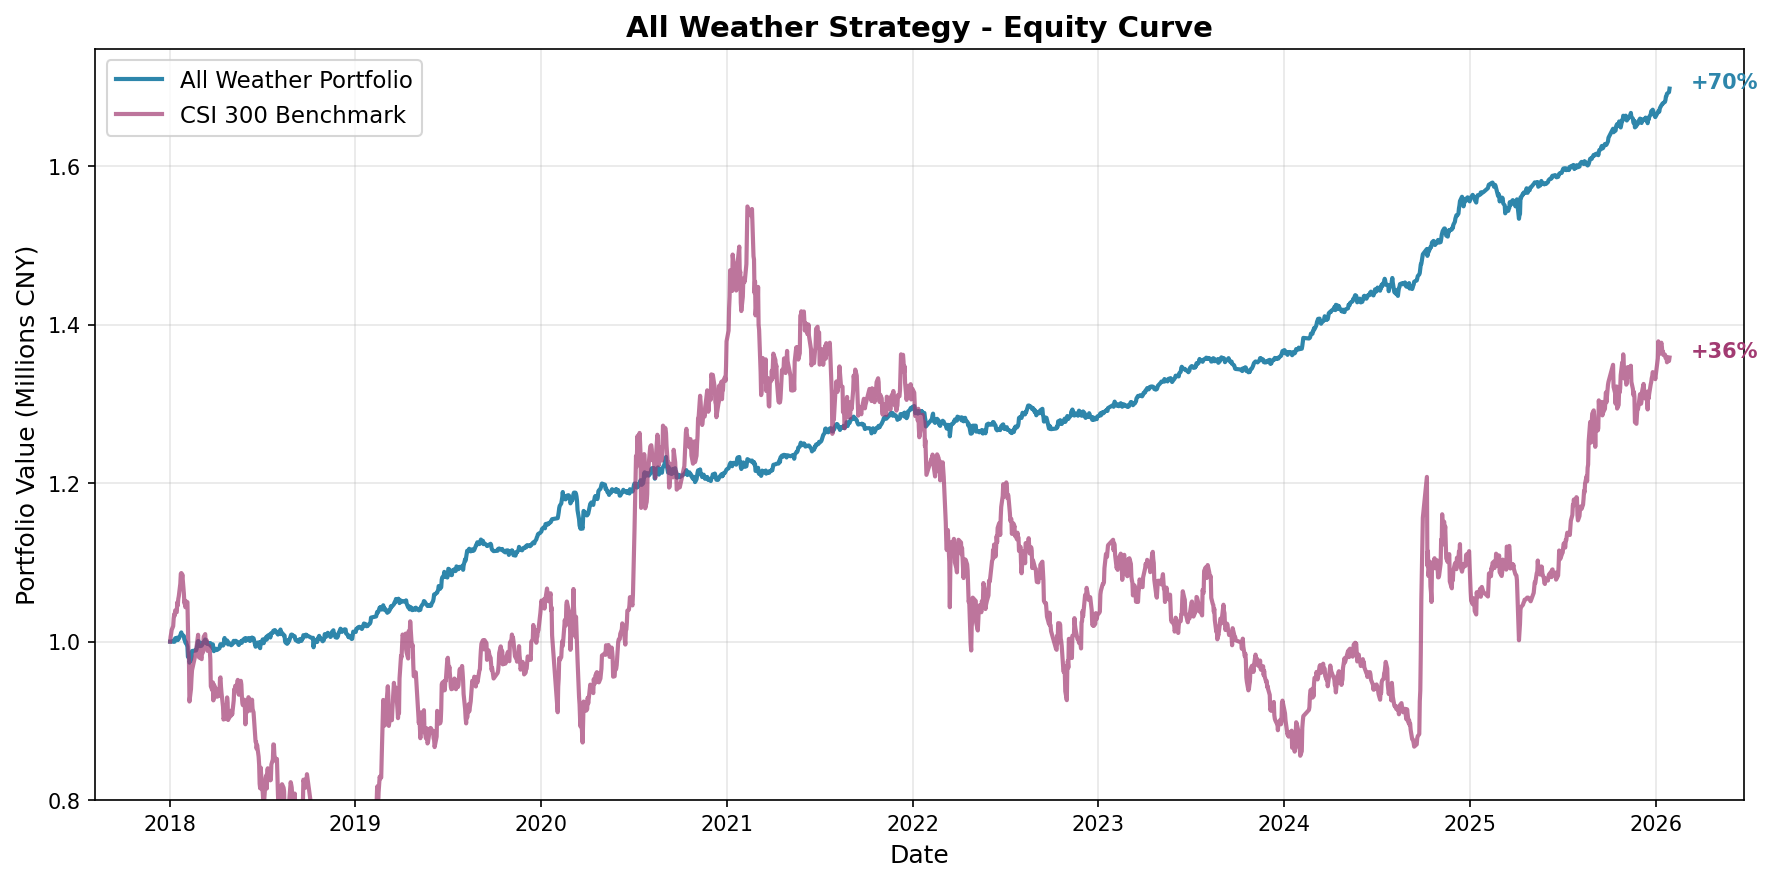
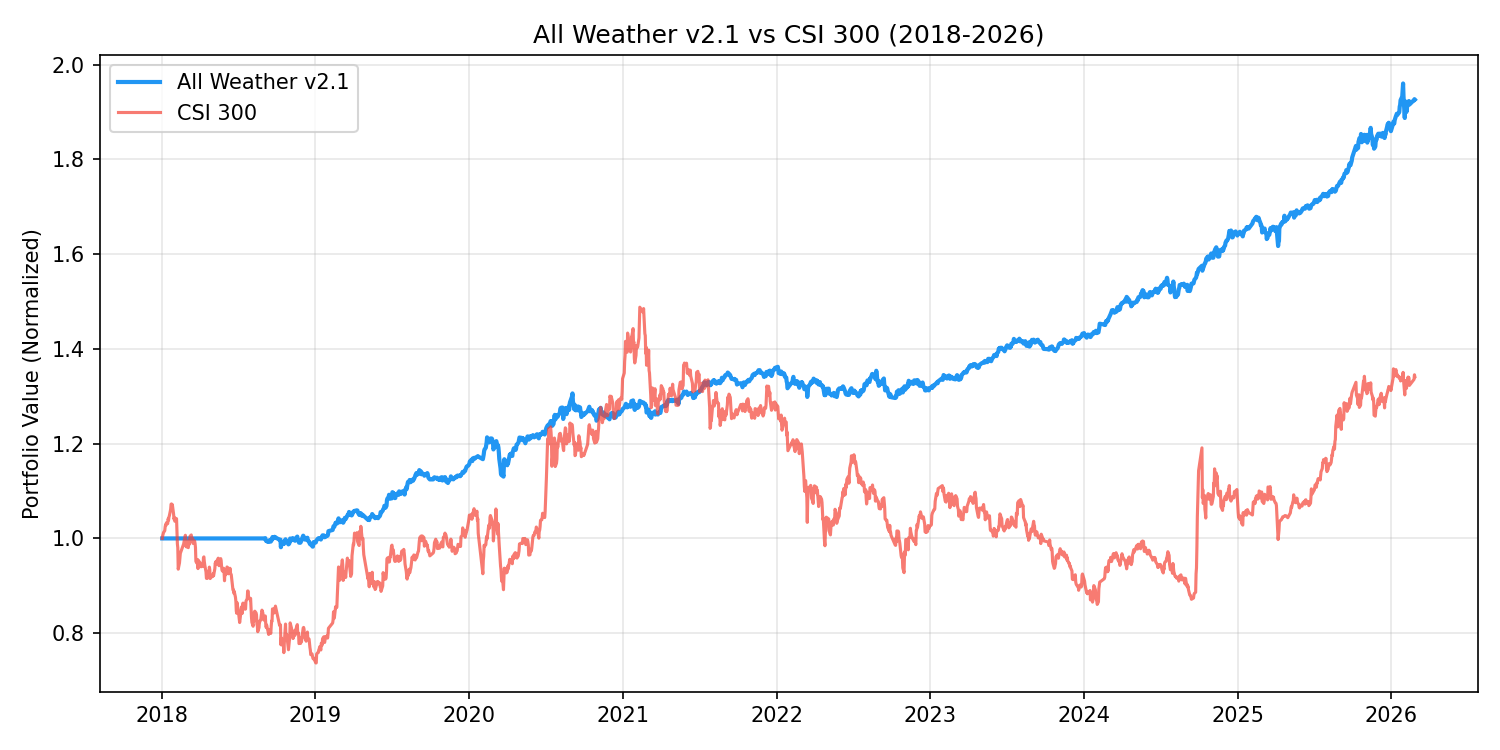
docs: update All Weather charts and metrics to v2.1 backtest results

diff --git a/_projects/all-weather.md b/_projects/all-weather.md
@@ -15,8 +15,9 @@ Implementation of Ray Dalio's All Weather Strategy with Ledoit-Wolf covariance s
 
 **Key Results:**
 
-- Sharpe Ratio: 0.94 (backtest 2018-2026)
-- Max Drawdown: -4.15%
+- Sharpe Ratio: 1.11 (backtest 2018-2026)
+- Max Drawdown: -6.83%
+- Total Return: +93%
 - Live tracking since Jan 2026
 
 ---
@@ -44,7 +45,7 @@ Risk parity allocates by risk contribution rather than capital, ensuring each as
 
 ### Equity Curve
 
-The All Weather portfolio returns +80% over the 2018-2026 backtest period, significantly outperforming the CSI 300 benchmark (+17%). The strategy delivers smoother growth with max drawdown of just -4.15%, compared to the benchmark's -40% during the same period.
+The All Weather v2.1 portfolio returns +93% over the 2018-2026 backtest period, significantly outperforming the CSI 300 benchmark. The strategy delivers smoother growth with max drawdown of -6.83%, compared to the benchmark's much deeper drawdowns during market corrections.
 
 <img src="/assets/img/projects/allweather_equity.png" alt="Equity Curve" style="max-width: 900px; width: 100%;">
 
